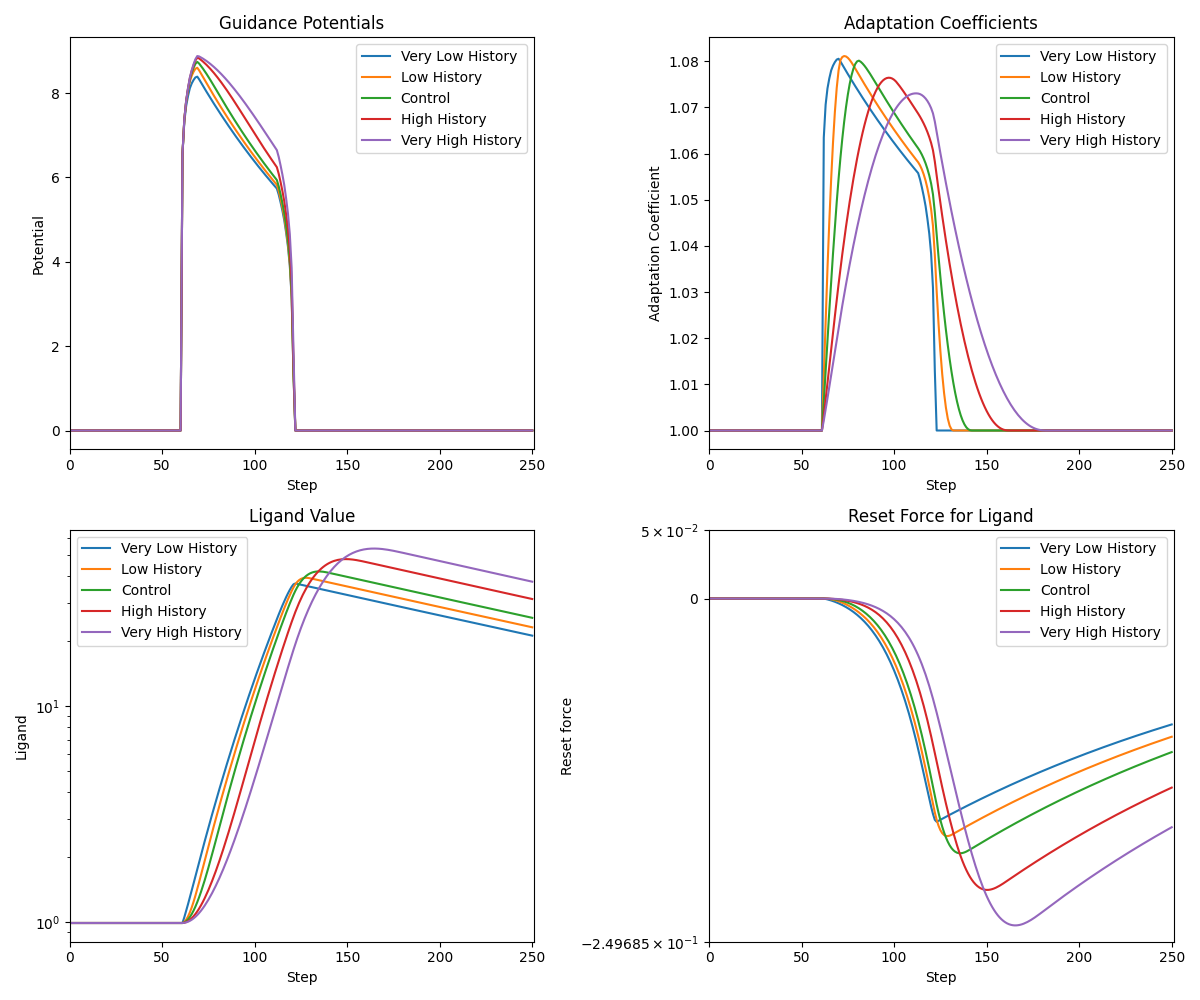
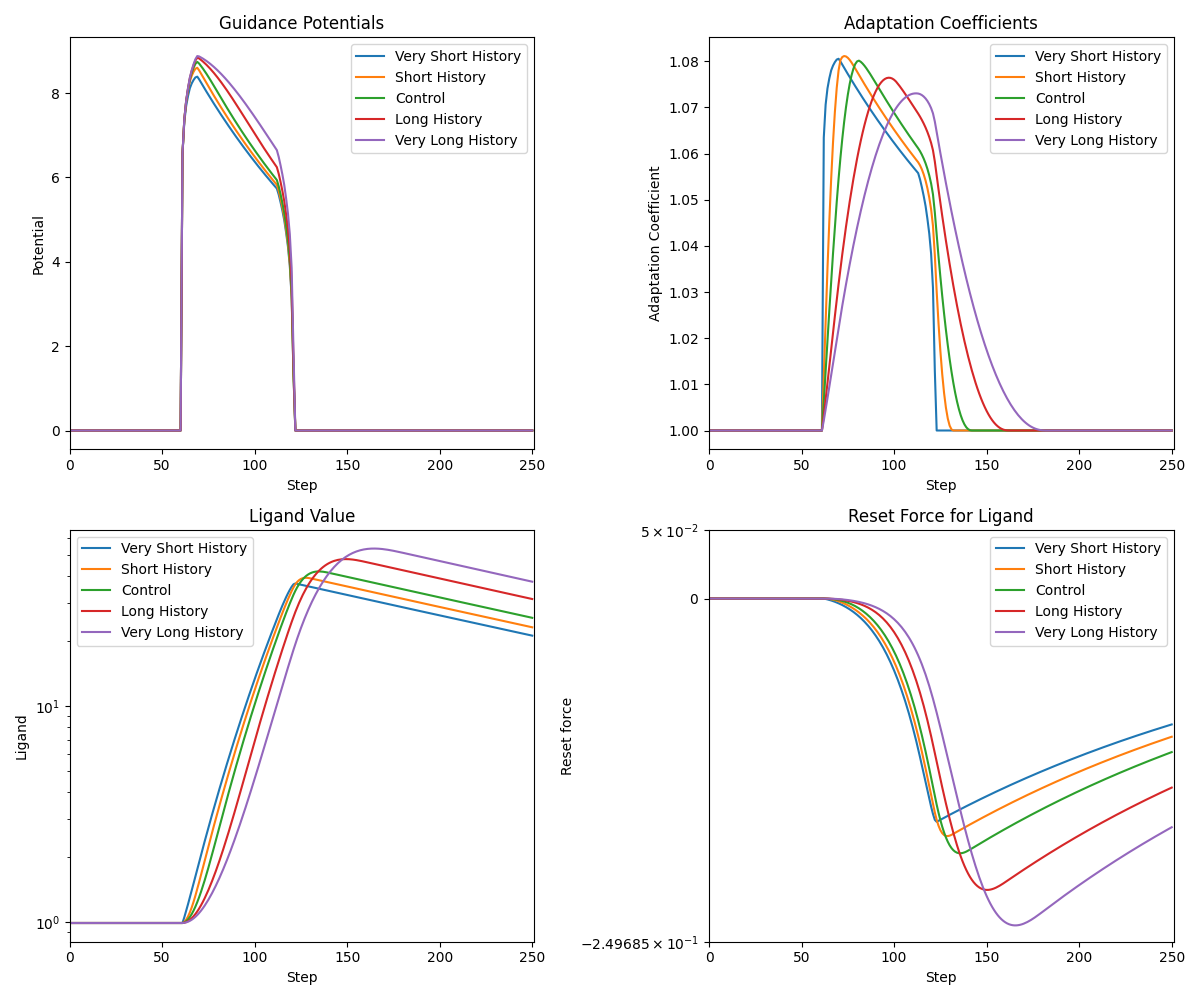
minor changes

diff --git a/main.py b/main.py
@@ -1,5 +1,5 @@
-from adap_investigation.five_plots import (adaptation_comparison_lambda, adaptation_comparison_mu,
-                                           adaptation_comparison_history)
+from adap_investigation.four_plots_comparison import (adaptation_comparison_lambda, adaptation_comparison_mu,
+                                                      adaptation_comparison_history)
 
 from build import object_factory
 import src.visualization as vz

diff --git a/adap_investigation/four_plots_comparison.py b/adap_investigation/four_plots_comparison.py
@@ -294,11 +294,11 @@ def adaptation_comparison_history():
     simulation.run()
     gc.extend(simulation.growth_cones)
 
-    gc[0].id = "Very Low History"
-    gc[1].id = "Low History"
+    gc[0].id = "Very Short History"
+    gc[1].id = "Short History"
     gc[2].id = "Control"
-    gc[3].id = "High History"
-    gc[4].id = "Very High History"
+    gc[3].id = "Long History"
+    gc[4].id = "Very Long History"
 
     vz.visualize_adaptation(gc)
 
